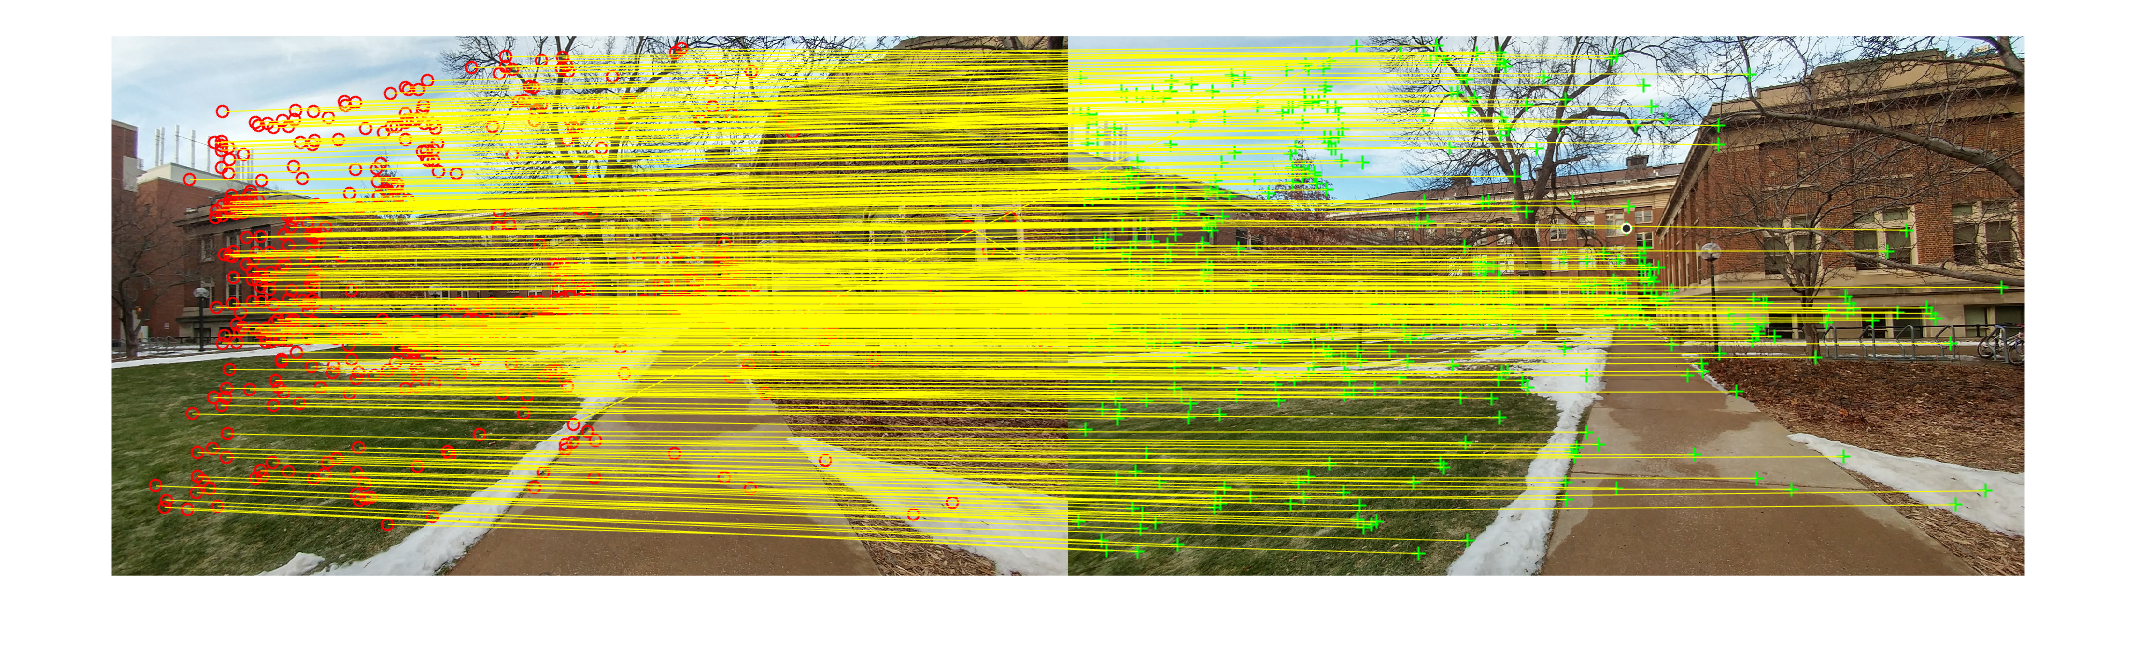
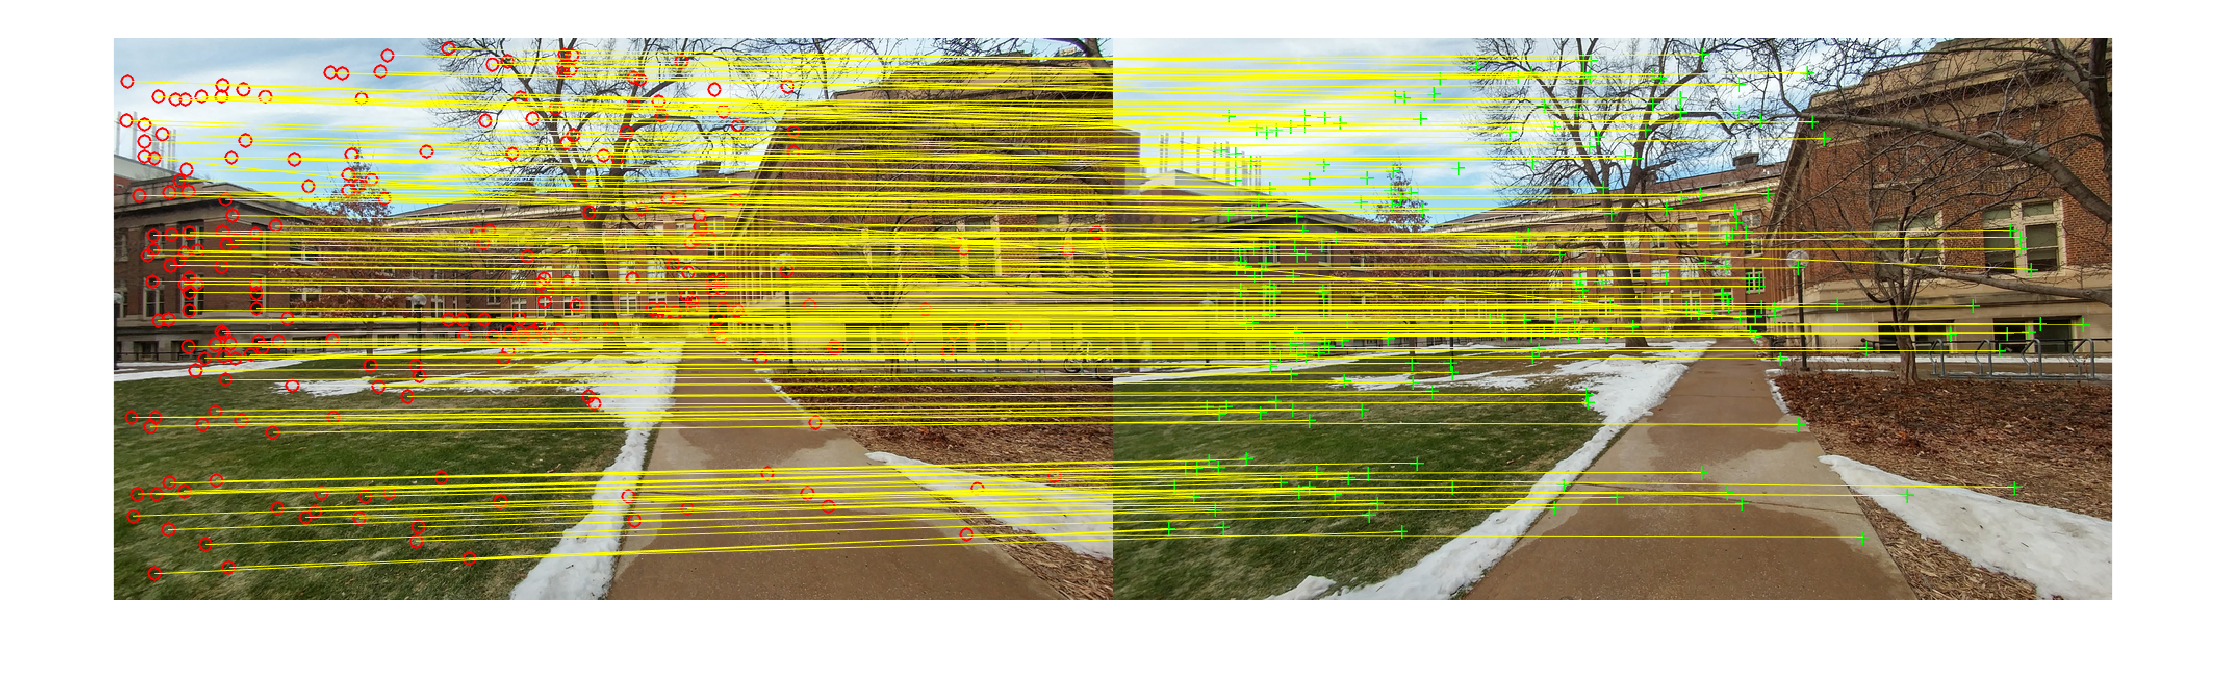
push files

diff --git a/HW5/SOURCE/DenseMatch.m b/HW5/SOURCE/DenseMatch.m
@@ -1,16 +1,91 @@
+% function [disp] = DenseMatch(im1, im2)
+%     [H,W,~] = size(im1);
+%     [~,d1] = vl_dsift(single(padarray(rgb2gray(im1),[1 1],0,'symmetric')),'step',1,'size',1,'Geometry',[3 3 5]);
+%     [~,d2] = vl_dsift(single(padarray(rgb2gray(im2),[1 1],0,'symmetric')),'step',1,'size',1,'Geometry',[3 3 5]);
+%     num_features = min(size(d1));
+%     d1 = reshape(d1',[H W num_features]);
+%     d2 = reshape(d2',[H W num_features]);
+%     disp = zeros([H,W]);
+%     for i=1:H
+%         for j=1:W
+%             [f,~] = knnsearch(double(reshape(d2(i,1:j,:),[],num_features)), double(reshape(d1(i,j,:),[],num_features)));
+%             disp(i,j) = f-j;
+%         end
+%     end
+% end
+
+% function [disp] = DenseMatch(im1, im2)
+% im1_new=single(rgb2gray(im1));
+% im2_new=single(rgb2gray(im2));
+% im1_padded=zeros(size(im1,1)+9, size(im1,2)+9);
+% im2_padded=zeros(size(im1,1)+9, size(im1,2)+9);
+% 
+% 
+% for i=1:size(im1,1)
+%     for j=1:size(im1,2)
+%       im1_padded(i+5,j+5)=im1_new(i,j);
+%       im2_padded(i+5,j+5)=im2_new(i,j);
+%     end
+% end
+% [f1, d1] = vl_dsift(single(im1_padded),'step',1) ;
+% [f2, d2] = vl_dsift(single(im2_padded),'step',1) ;
+% d1_new=reshape(d1',[size(im1,1) size(im1,2),128]);
+% d2_new=reshape(d2',[size(im1,1) size(im1,2),128]);
+% disparity=zeros(size(im1,1), size(im1,2));
+% dscr_ctr=1;
+% for i=1:size(im1,1)
+%     for j=1:size(im1,2)
+%         %pixel_descriptor=zeros(1,size(im1,2));
+%         temp1=double(d1_new(i,j,:));
+%         t1=reshape(temp1,[128 1]);
+%          temp2=double(d2_new(i,1:j,:));
+%         t2=reshape(temp2,[j 128])';
+%         t1_rep=repmat(t1,[1 j]);
+%         pixel_descriptor=vecnorm(t1_rep-t2);
+%          [minimum,index]=min(pixel_descriptor);
+%          disparity(i,j)=abs(index-j);
+%     end
+%       
+%         
+%        
+% end
+% disp=disparity;
+% end
+
 function [disp] = DenseMatch(im1, im2)
     [H,W,~] = size(im1);
-    [~,d1] = vl_dsift(single(padarray(rgb2gray(im1),[1 1],0,'symmetric')),'step',1,'size',1,'Geometry',[3 3 5]);
-    [~,d2] = vl_dsift(single(padarray(rgb2gray(im2),[1 1],0,'symmetric')),'step',1,'size',1,'Geometry',[3 3 5]);
+    [~,d1] = vl_dsift(single(padarray(rgb2gray(im1),[1 1],0,'symmetric')),'step',1,'size',1,'Geometry',[3 3 6]);
+    [~,d2] = vl_dsift(single(padarray(rgb2gray(im2),[1 1],0,'symmetric')),'step',1,'size',1,'Geometry',[3 3 6]);
     num_features = min(size(d1));
     d1 = reshape(d1',[H W num_features]);
     d2 = reshape(d2',[H W num_features]);
     disp = zeros([H,W]);
-    for i=1:H
-        i
-        for j=1:W
-            [~,d] = knnsearch(double(reshape(d2(i,j:end,:),[],num_features)), double(reshape(d1(i,j,:),[],num_features)));
-            disp(i,j) = d.^2;
+    
+%     im1_new=single(rgb2gray(im1));
+%     im2_new=single(rgb2gray(im2));
+%     im1_padded=zeros(size(im1,1)+9, size(im1,2)+9);
+%     im2_padded=zeros(size(im1,1)+9, size(im1,2)+9);
+%     for i=1:size(im1,1)
+%         for j=1:size(im1,2)
+%           im1_padded(i+5,j+5)=im1_new(i,j);
+%           im2_padded(i+5,j+5)=im2_new(i,j);
+%         end
+%     end
+%     [~, d1] = vl_dsift(single(im1_padded),'step',1) ;
+%     [~, d2] = vl_dsift(single(im2_padded),'step',1) ;
+%     num_features = min(size(d1));
+%     d1=reshape(d1',[size(im1,1) size(im1,2),128]);
+%     d2=reshape(d2',[size(im1,1) size(im1,2),128]);
+%     disp=zeros(size(im1,1), size(im1,2));
+    
+    for i=1:size(im1,1)
+        for j=1:size(im1,2)
+            t1 = double(reshape(d1(i,j,:),[num_features,1]));
+            t2 = double(reshape(d2(i,1:j,:),[j,num_features]))';
+            t1_rep=repmat(t1,[1 j]);
+            pixel_descriptor=vecnorm(t1_rep-t2);
+            [~,index]=min(pixel_descriptor);
+            disp(i,j)=abs(index-j);
         end
     end
 end

diff --git a/HW5/SOURCE/main_stereo.m b/HW5/SOURCE/main_stereo.m
@@ -10,9 +10,11 @@ K = [350 0 960/2;
      0 350 540/2;
          0 0 1];
 [x1, x2] = FindMatch(im1, im2);
+figure;ax=axes;
+showMatchedFeatures(im1, im2, x1, x2, 'montage','Parent',ax);
+saveas(gcf,"../RESULT/matched_points.png")
 %%
 [F] = ComputeF(x1, x2);
-% F = estimateFundamentalMatrix(x2,x1);
 %%
 % Compute four configurations of camera pose given F
 [R1, C1, R2, C2, R3, C3, R4, C4] = ComputeCameraPose(F, K);
@@ -39,14 +41,14 @@ P4 = K*R4*[eye(3) -C4];
 [H1, H2] = ComputeRectification(K, R, C);
 im1_w = WarpImage(im1, H1);
 im2_w = WarpImage(im2, H2);
-figure(1)
-imshow(im1_w)
-figure(2)
-imshow(im2_w)
+figure(1);
+imshow(im1_w);
+figure(2);
+imshow(im2_w);
 %%
-im1_w = imresize(im1_w, 0.5);
-im2_w = imresize(im2_w, 0.5);
-[disp] = DenseMatch(im2_w, im1_w);
+im1_w = imresize(im1_w, 0.3);
+im2_w = imresize(im2_w, 0.3);
+[disp] = DenseMatch(im1_w, im2_w);
 %%
 figure(3)
 clf;

diff --git a/HW5/SOURCE/ComputeRectification.m b/HW5/SOURCE/ComputeRectification.m
@@ -1,9 +1,21 @@
+% function [H1, H2] = ComputeRectification(K, R, C)
+%     rx = C/norm(C);
+%     rzhat = [0;0;1];
+%     rz = (rzhat-dot(rzhat,rx)*rx)/norm(rzhat-dot(rzhat,rx)*rx);
+%     ry = cross(rz,rx);
+%     Rrect = [rx';ry';rz'];
+%     H1 = K*Rrect*inv(K);
+%     H2 = K*Rrect*R'*inv(K);
+% end
+
 function [H1, H2] = ComputeRectification(K, R, C)
-    rx = C/norm(C);
-    rzhat = [0;0;1];
-    rz = (rzhat-dot(rzhat,rx)*rx)/norm(rzhat-dot(rzhat,rx)*rx);
-    ry = cross(rz,rx);
-    Rrect = [rx';ry';rz'];
-    H1 = K*Rrect/K;
-    H2 = K*Rrect*R'/K;
+rx_t=(C./norm(C))';
+rz_tilde=[0;0;1];
+rz= (rz_tilde- (dot(rz_tilde,rx_t')*rx_t'))./norm(rz_tilde- (dot(rz_tilde,rx_t')*rx_t'));
+ry=cross(rz,rx_t');
+
+R_rect=[rx_t; ry'; rz'];
+
+H1=K*R_rect*inv(K);
+H2=K*R_rect*R'*inv(K);
 end

diff --git a/HW5/SOURCE/ComputeF.m b/HW5/SOURCE/ComputeF.m
@@ -1,7 +1,7 @@
 function [F] = ComputeF(x1, x2)
     max_inliers = 0;
-    nIter = 100000;
-    epsilon = 0.0001;
+    nIter = 10000;
+    epsilon = 0.1;
     for iter = 1:nIter
         index = randperm(max(size(x1)));
         u = [x1(index(1:8),:) ones(8,1)];
@@ -11,9 +11,10 @@ function [F] = ComputeF(x1, x2)
             x = u(i,:)'*v(i,:);
             A(i,:) = x(:)';
         end
-        [~,~,V] = svd(A);
+        [~,~,V] = svd(A'*A);
         f = V(:,end);
-        F = reshape(f(:,1), [3,3])';
+        F = reshape(f, [3,3])';
+        F=F./F(3,3);
         [U,S,V] = svd(F);
         S(3,3) = 0;
         F = U*S*V';

diff --git a/HW5/SOURCE/Triangulation.m b/HW5/SOURCE/Triangulation.m
@@ -16,3 +16,20 @@ end
 function Ax = SkewSymmetric(A)
     Ax=[0 -A(3) A(2) ; A(3) 0 -A(1) ; -A(2) A(1) 0 ];
 end
+
+
+% function [X] = Triangulation(P1, P2, x1, x2)
+% 
+% X=zeros(size(x1,1),3);
+% for i=1:size(x1,1)
+%     A_upper=[0 -1 x1(i,2); 1 0  -x1(i,1); -x1(i,2) x1(i,1) 0]*P1;
+%     A_lower=[0 -1 x2(i,2); 1 0  -x2(i,1); -x2(i,2) x2(i,1) 0]*P2;
+%     A=[A_upper;A_lower];
+%     [U,S,V]=svd(A);
+%     temp=V(:,4);
+%     X_each=[temp(1,1)/temp(4,1)  temp(2,1)/temp(4,1)  temp(3,1)/temp(4,1)];
+%     X(i,:)=X_each;
+%     
+% end
+% 
+% end

diff --git a/HW5/SOURCE/debug.m b/HW5/SOURCE/debug.m
@@ -5,11 +5,7 @@ im2 = imread('../DATA/right.bmp');
 %%
 [x1, x2] = FindMatch(im1, im2);
 %%
-F_mat = estimateFundamentalMatrix(x1,x2);
-%%
 [F] = ComputeF(x1, x2);
-%%
-F = F_mat;
 %%
 K = [350 0 960/2;
      0 350 540/2;
@@ -37,6 +33,12 @@ imshow(im2_w)
 %%
 im1_w = imresize(im1_w, 0.5);
 im2_w = imresize(im2_w, 0.5);
+%%
+im1_new=single(rgb2gray(im1));
+im2_new=single(rgb2gray(im2));
+im1_padded=zeros(size(im1,1)+9, size(im1,2)+9);
+im2_padded=zeros(size(im1,1)+9, size(im1,2)+9);
+%%
 [disparity] = DenseMatch(im1_w, im2_w);
 
 figure(1)
